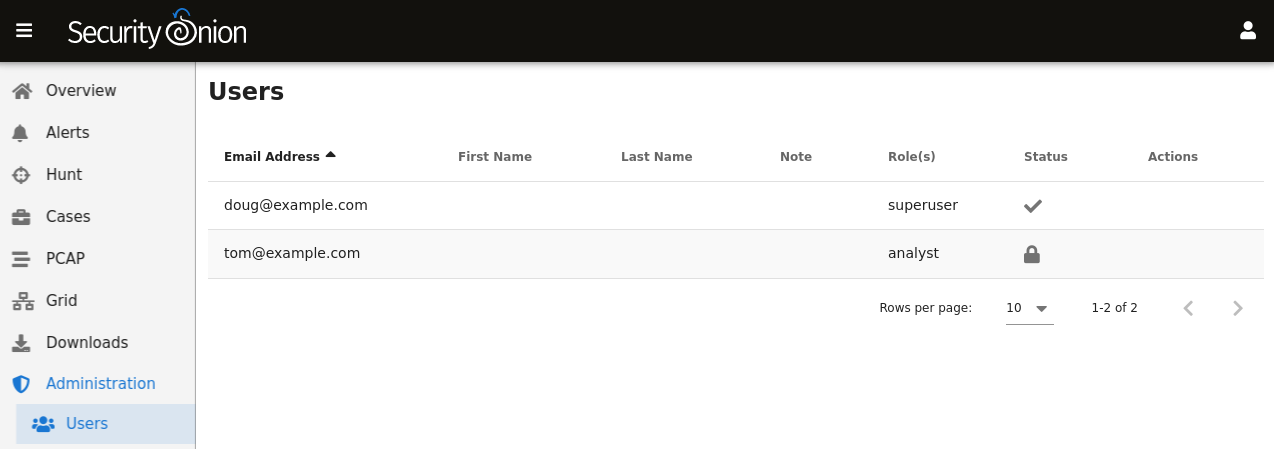
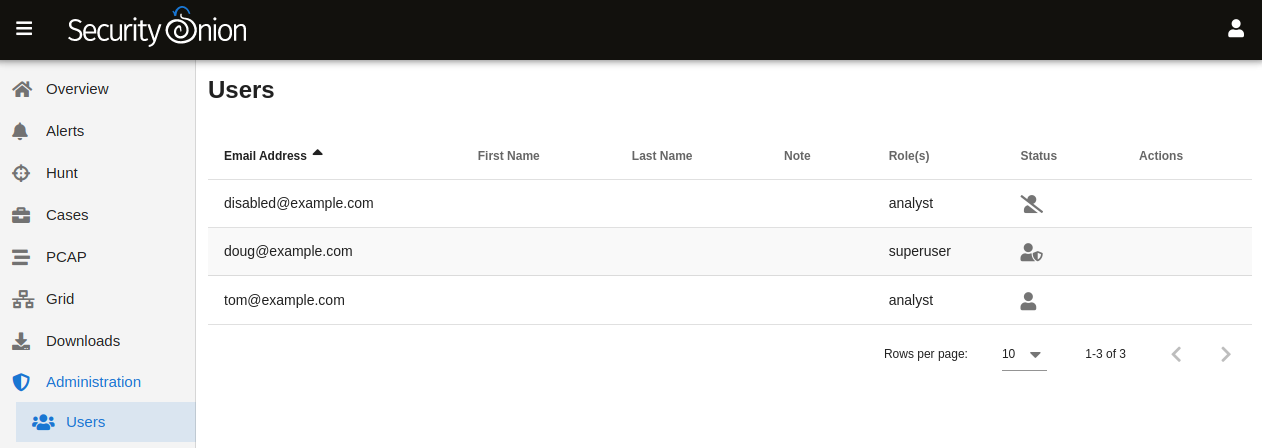
update Accounts section

diff --git a/passwords.rst b/passwords.rst
@@ -26,19 +26,24 @@ Security Onion Console (SOC)
 
 Log into :ref:`soc` using the username and password you created in the Setup wizard.
 
-You can change your password in :ref:`soc` by clicking the user icon in the upper right corner and then clicking ``Settings``:
+You can change your password in :ref:`soc` by clicking the user icon in the upper right corner, clicking ``Settings``, and then going to the ``Security`` tab:
 
-.. image:: https://user-images.githubusercontent.com/1659467/95574537-17764400-09fb-11eb-80ff-15ce9e9de16d.png
-  :target: https://user-images.githubusercontent.com/1659467/95574537-17764400-09fb-11eb-80ff-15ce9e9de16d.png
+.. image:: images/password.png
+  :target: _images/password.png
 
 If you've forgotten your SOC password, you can reset it using the ``so-user`` command:
 
 ::
 
-    so-user update username@example.com
+    sudo so-user update username@example.com
     
-TheHive
--------
-Log into :ref:`hive` using the username and password you created in the Setup wizard.
+MFA
+~~~
 
-You can change your password in :ref:`hive` by clicking the user icon in the upper right corner, clicking ``Settings``. Then click ``Update password`` and follow the prompts.
+Starting in Security Onion 2.3.110, you can enable Multi-Factor Authentication (MFA) to further protect your account. This can be enabled at the bottom of the ``Security`` tab. Activating MFA requires the use of an authenticator app. Currently only Google Authenticator has been tested, however other authenticator apps that implement the time-based one-time password (TOTP) specification could also work.
+
+Note that if a user loses access to the authenticator app, a Security Onion administrator can SSH into the manager node and run the following to change that user's password and temporarily disable MFA:
+
+::
+
+    sudo so-user update username@example.com

diff --git a/disabling-accounts.rst b/disabling-accounts.rst
@@ -14,21 +14,17 @@ If you need to disable an OS user account, you can expire the account using ``us
 
 For more information, please see ``man passwd`` and ``man usermod``.
 
-SOC & TheHive & Fleet - CLI
----------------------------
+SOC
+---
 
-If you need to disable an account in :ref:`soc`, :ref:`hive`, and :ref:`fleet`, you can use the ``so-user-diasable`` command and specify the user's email address. For example, to disable the account for ``tom@example.com``:
+If you need to disable an account in :ref:`soc` and :ref:`fleet`, you can use the ``so-user-disable`` command and specify the user's email address. For example, to disable the account for ``tom@example.com``:
 
 ::
 
     sudo so-user-disable tom@example.com
 
-After disabling a user account, the :ref:`soc` :ref:`administration` page will show the disabled user account with a lock icon in the Status column:
+After disabling a user account, the :ref:`soc` :ref:`administration` page will show the disabled user account with a disabled icon in the Status column:
 
 .. image:: images/users.png
   :target: _images/users.png
 
-TheHive - UI
-------------
-
-Log into :ref:`hive` and then click ``Admin`` and ``Users`` to access the User management screen. Then click the ``Lock`` button for the user account you want to disable.

diff --git a/adding-accounts.rst b/adding-accounts.rst
@@ -14,16 +14,12 @@ If you need to add a new OS user account, you can use the ``adduser`` command.  
 
 For more information, please see ``man adduser``.
 
-SOC & TheHive & Fleet - CLI
----------------------------
+SOC
+---
 
-If you need to add a new account to :ref:`soc`, :ref:`hive`, and :ref:`fleet` you can use the ``so-user-add`` command and specify the user's email address. For example, to add a new account for ``tom@example.com``:
+If you need to add a new account to :ref:`soc` and :ref:`fleet`, you can use the ``so-user-add`` command and specify the user's email address. For example, to add a new account for ``tom@example.com``:
 
 ::
 
     sudo so-user-add tom@example.com
 
-TheHive - UI
-------------
-
-If you need to add a new :ref:`hive` account, log into :ref:`hive` with your existing account and then click ``Admin`` and ``Users`` to access the ``User management`` screen. Then click the ``Add user`` button and follow the prompts. Once the user has been created, you can then set their password.

diff --git a/listing-accounts.rst b/listing-accounts.rst
@@ -32,6 +32,3 @@ Alternatively, you can get a list of users in :ref:`soc` by clicking ``Administr
 .. image:: images/users.png
   :target: _images/users.png
 
-TheHive
--------
-To see all :ref:`hive` accounts, log into :ref:`hive` and then click ``Admin`` and ``Users`` to access the User management screen.
